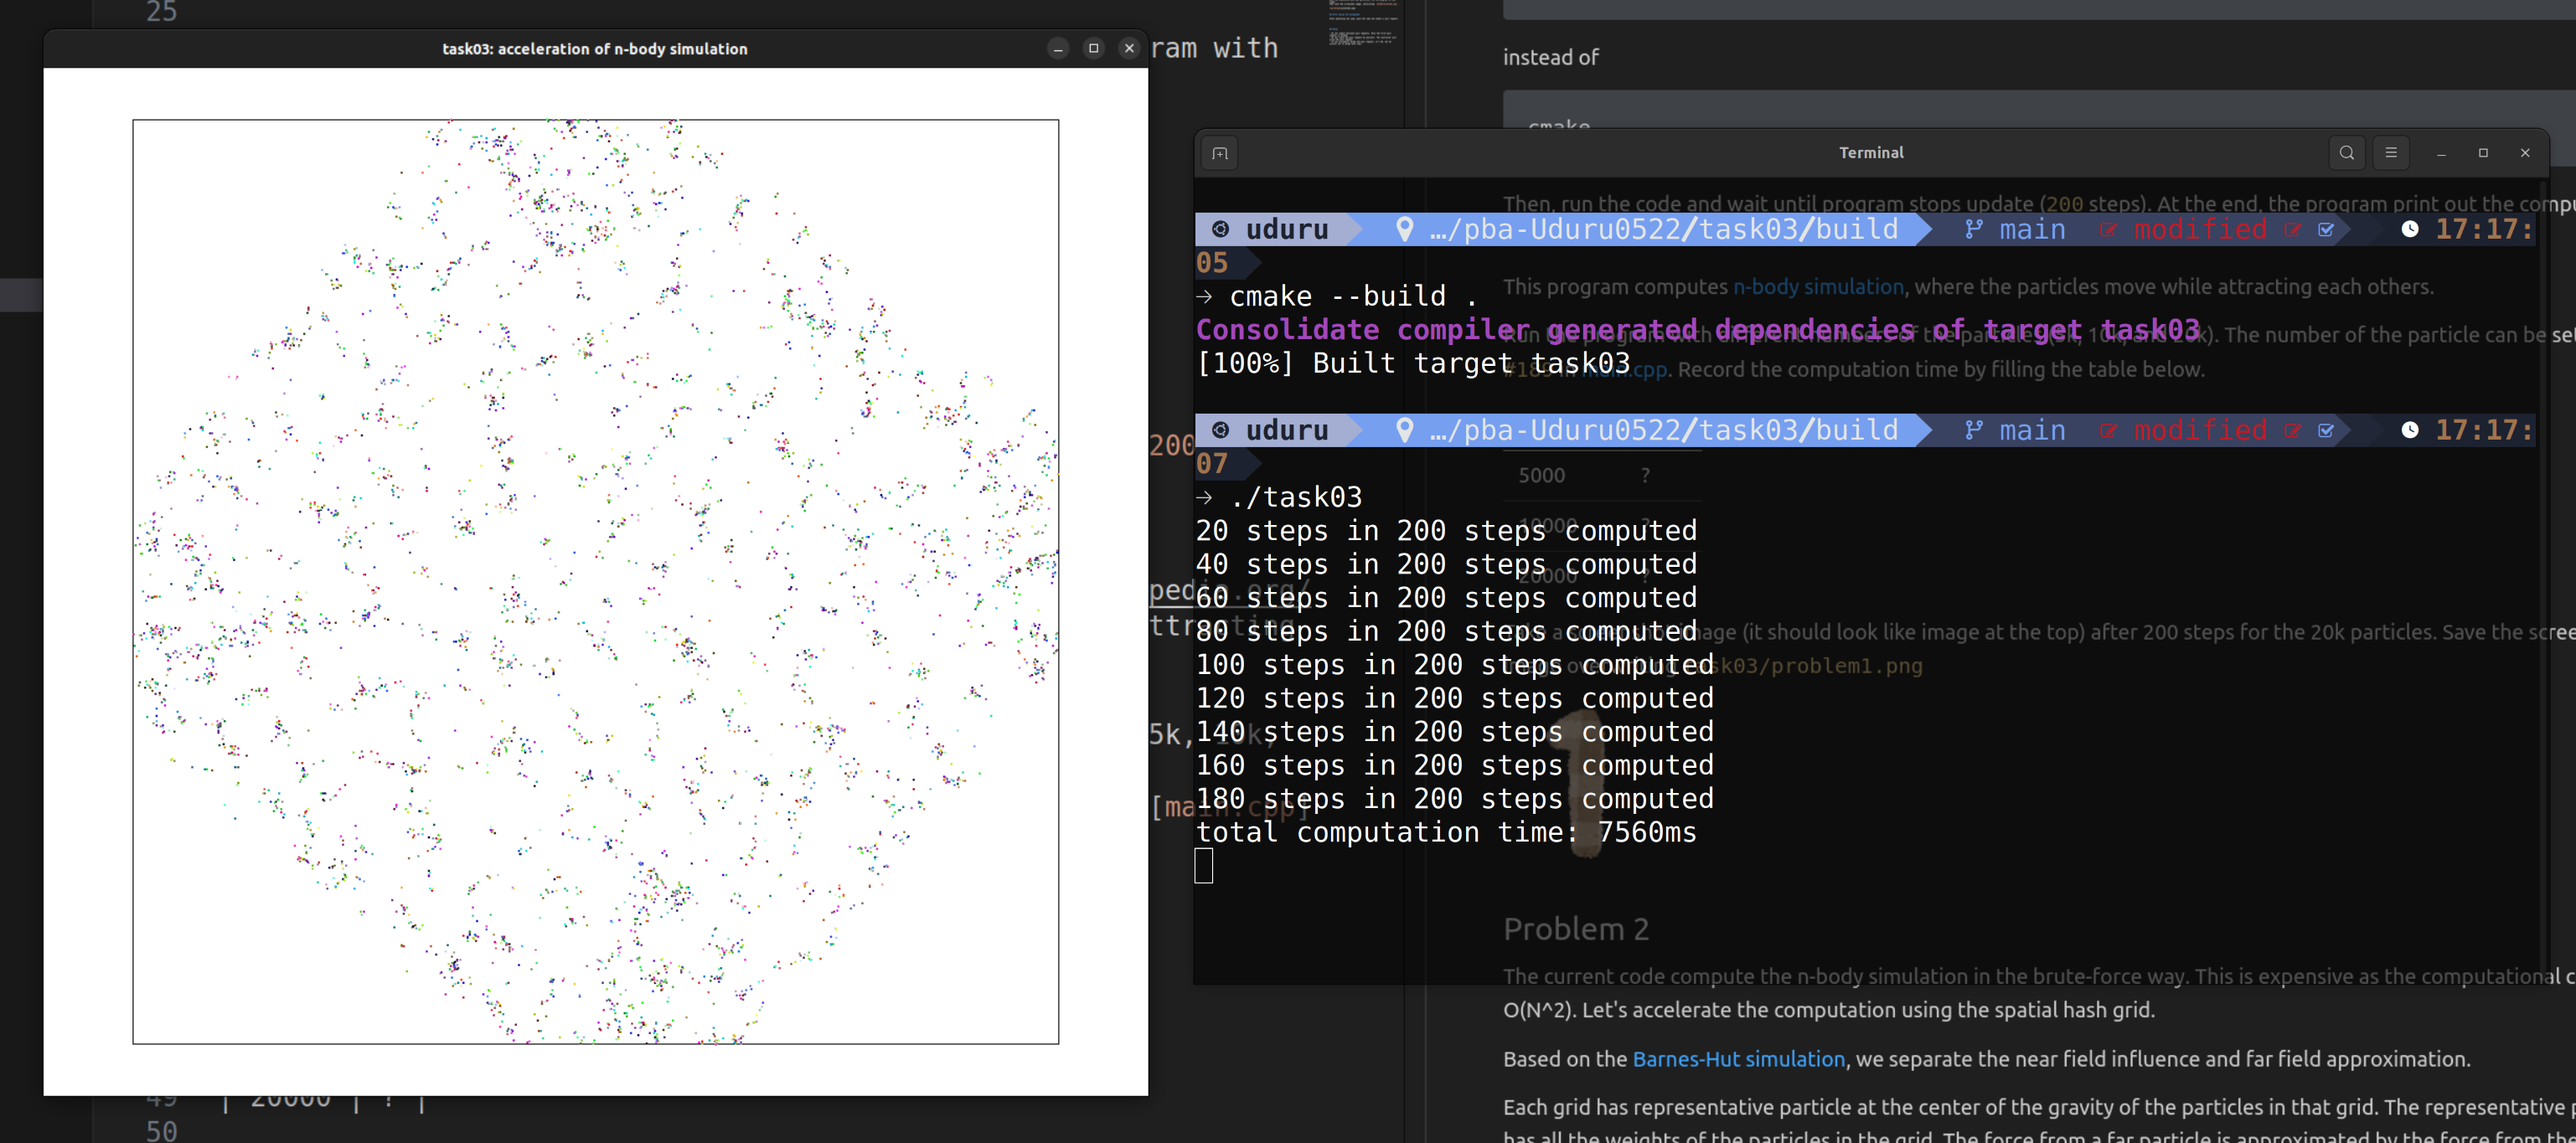
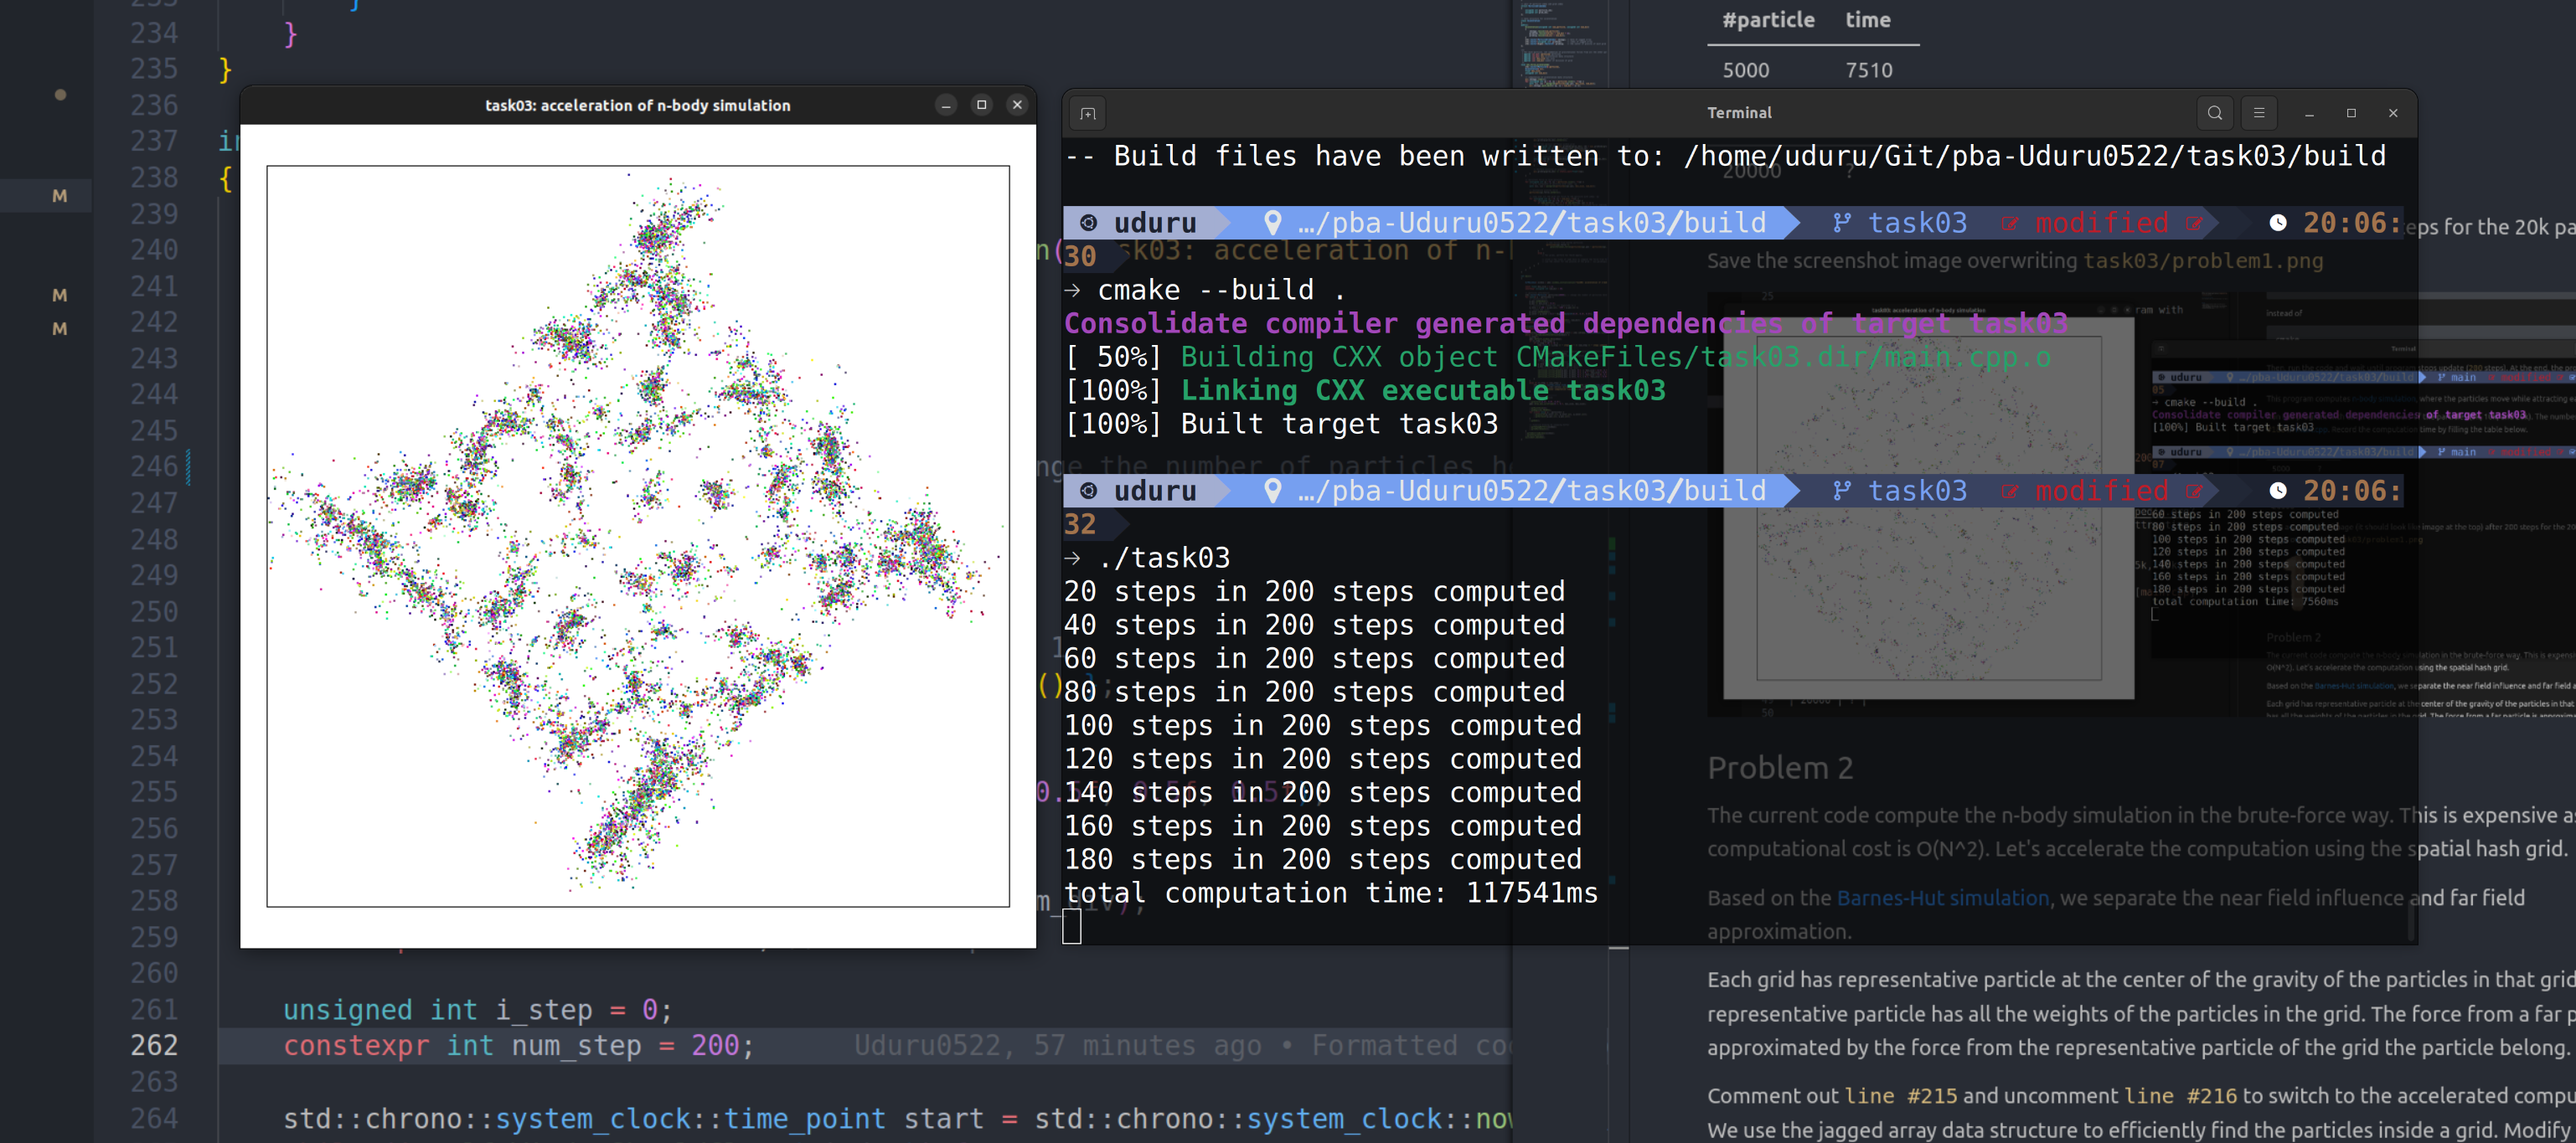
Modified README, added requried images

diff --git a/task03/README.md b/task03/README.md
@@ -44,8 +44,8 @@ Record the computation time by filling the table below.
 
 | #particle | time |
 | --- | --- |
-| 5000 | ? |
-| 10000 | ? |
+| 5000 | 7510 |
+| 10000 | 29402 |
 | 20000 | ? |
 
 
@@ -77,9 +77,9 @@ Record the computation time by filling the table below.
 
 | #particle | time |
 | --- | --- |
-| 5000 | ? |
-| 10000 | ? |
-| 20000 | ? |
+| 5000 | 3317 |
+| 10000 | 3314 |
+| 20000 | 7608 |
 
 With the simulation with 20k particles, run the program for 200 steps. 
 Then save the screenshot image, overwriting `task03/problem2.png`.
